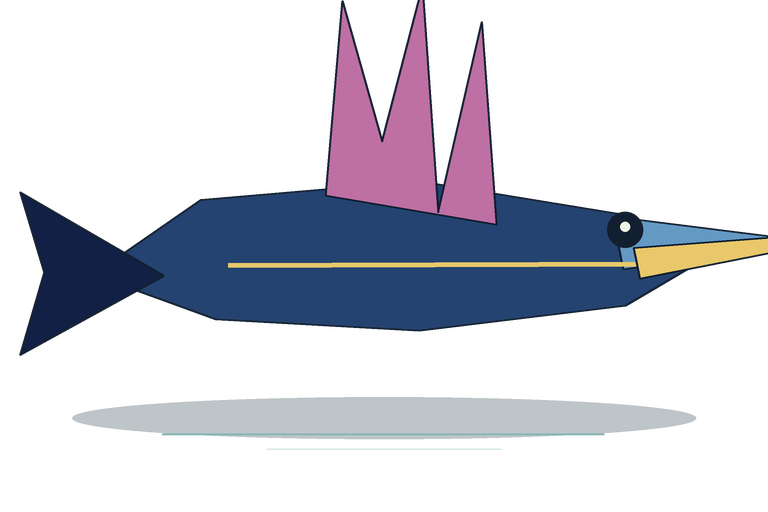
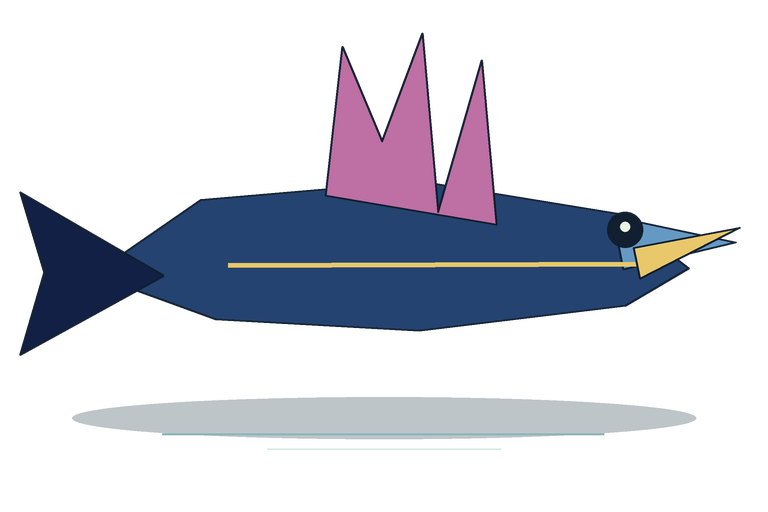
Keep sailfish art inside card canvas

Changed region(s): [[0.4062, 0.0, 0.5625, 0.3438], [0.5625, 0.0312, 0.6562, 0.4062], [0.8125, 0.4062, 1.0, 0.5625]]

diff --git a/tools/generate_expanded_fish_art.py b/tools/generate_expanded_fish_art.py
@@ -74,6 +74,7 @@ EXPANDED_FISH_STEMS = (
     "singing_herring",
 )
 SUPPORT_STEMS = ("old_boot", "aurora_koi")
+SAILFISH_SAFE_MARGIN = 8
 
 
 def rgba(color, alpha=255):
@@ -246,11 +247,14 @@ def draw_sailfish(d, style, s):
     def q(x, y): return (384 + x * style.scale, 260 + y * style.scale)
     draw_poly(d, [q(-280, 14), q(-176, -58), q(34, -76), q(224, -45), q(293, 8), q(232, 44), q(34, 68), q(-162, 57)], style.base)
     draw_poly(d, [q(-212, 15), q(-350, -65), q(-327, 12), q(-350, 91)], style.dark)
-    draw_poly(d, [q(-56, -62), q(-40, -249), q(-2, -114), q(37, -263), q(52, -46), q(94, -229), q(108, -34)], style.fin)
-    draw_poly(d, [q(220, -42), q(419, -17), q(230, 9)], style.light)
+    # Keep the signature sail and bill inside the 768x512 card.  The old
+    # peaks at y=-249/-263 and bill tip at x=495 were clipped after scaling,
+    # which made the sailfish silhouette lose its identifying features.
+    draw_poly(d, [q(-56, -62), q(-40, -205), q(-2, -114), q(37, -218), q(52, -46), q(94, -192), q(108, -34)], style.fin)
+    draw_poly(d, [q(220, -42), q(338, -17), q(230, 9)], style.light)
     draw_line(d, [q(-150, 5), q(248, 4)], style.accent, 5)
     ex, ey = q(232,-29); d.ellipse((int((ex - 18) * SCALE), int((ey - 18) * SCALE), int((ex + 18) * SCALE), int((ey + 18) * SCALE)), fill=INK); d.ellipse((int((ex - 5) * SCALE), int((ey - 8) * SCALE), int((ex + 5) * SCALE), int((ey + 2) * SCALE)), fill=FOAM)
-    draw_poly(d, [q(240, -12), q(495, -31), q(246, 18)], style.accent)
+    draw_poly(d, [q(240, -12), q(342, -31), q(246, 18)], style.accent)
 
 
 def draw_eel(d, style, s):
@@ -263,8 +267,28 @@ def draw_eel(d, style, s):
     draw_line(d, [q(342, 13), q(378, 20), q(342, 31)], style.dark, 4)
 
 
+def validate_sailfish_bounds(card: Image.Image):
+    """Reject sailfish cards whose alpha silhouette touches the canvas edge."""
+    bbox = card.getchannel("A").getbbox()
+    if bbox is None:
+        raise ValueError("night_sailfish generated an empty card")
+    left, top, right, bottom = bbox
+    if (
+        left < SAILFISH_SAFE_MARGIN
+        or top < SAILFISH_SAFE_MARGIN
+        or right > W - SAILFISH_SAFE_MARGIN
+        or bottom > H - SAILFISH_SAFE_MARGIN
+    ):
+        raise ValueError(
+            "night_sailfish silhouette exceeds its safe canvas bounds: "
+            f"bbox={bbox}, margin={SAILFISH_SAFE_MARGIN}"
+        )
+
+
 def save_style(stem: str, style: FishStyle):
     card = draw_fish(style)
+    if stem == "night_sailfish":
+        validate_sailfish_bounds(card)
     card.save(CARD_DIR / f"{stem}_v2.png", optimize=True)
     portrait = card.resize((96, 64), Image.Resampling.LANCZOS)
     portrait.save(PORTRAIT_DIR / f"{stem}.png", optimize=True)

diff --git a/tests/test_expanded_fish_art.py b/tests/test_expanded_fish_art.py
@@ -1,0 +1,29 @@
+"""Focused regression checks for generated expanded fish art."""
+from __future__ import annotations
+
+import sys
+import unittest
+from pathlib import Path
+
+from PIL import Image
+
+ROOT = Path(__file__).resolve().parents[1]
+sys.path.insert(0, str(ROOT / "tools"))
+import generate_expanded_fish_art as generator  # noqa: E402
+
+
+class ExpandedFishArtTests(unittest.TestCase):
+    def test_night_sailfish_geometry_stays_inside_card(self):
+        card = generator.draw_fish(generator.STYLES["night_sailfish"])
+        generator.validate_sailfish_bounds(card)
+
+    def test_night_sailfish_assets_keep_expected_sizes_and_bounds(self):
+        with Image.open(ROOT / "assets" / "fish_cards" / "night_sailfish_v2.png") as card:
+            self.assertEqual(card.size, (generator.W, generator.H))
+            generator.validate_sailfish_bounds(card)
+        with Image.open(ROOT / "assets" / "fish" / "night_sailfish.png") as portrait:
+            self.assertEqual(portrait.size, (96, 64))
+
+
+if __name__ == "__main__":
+    unittest.main()
